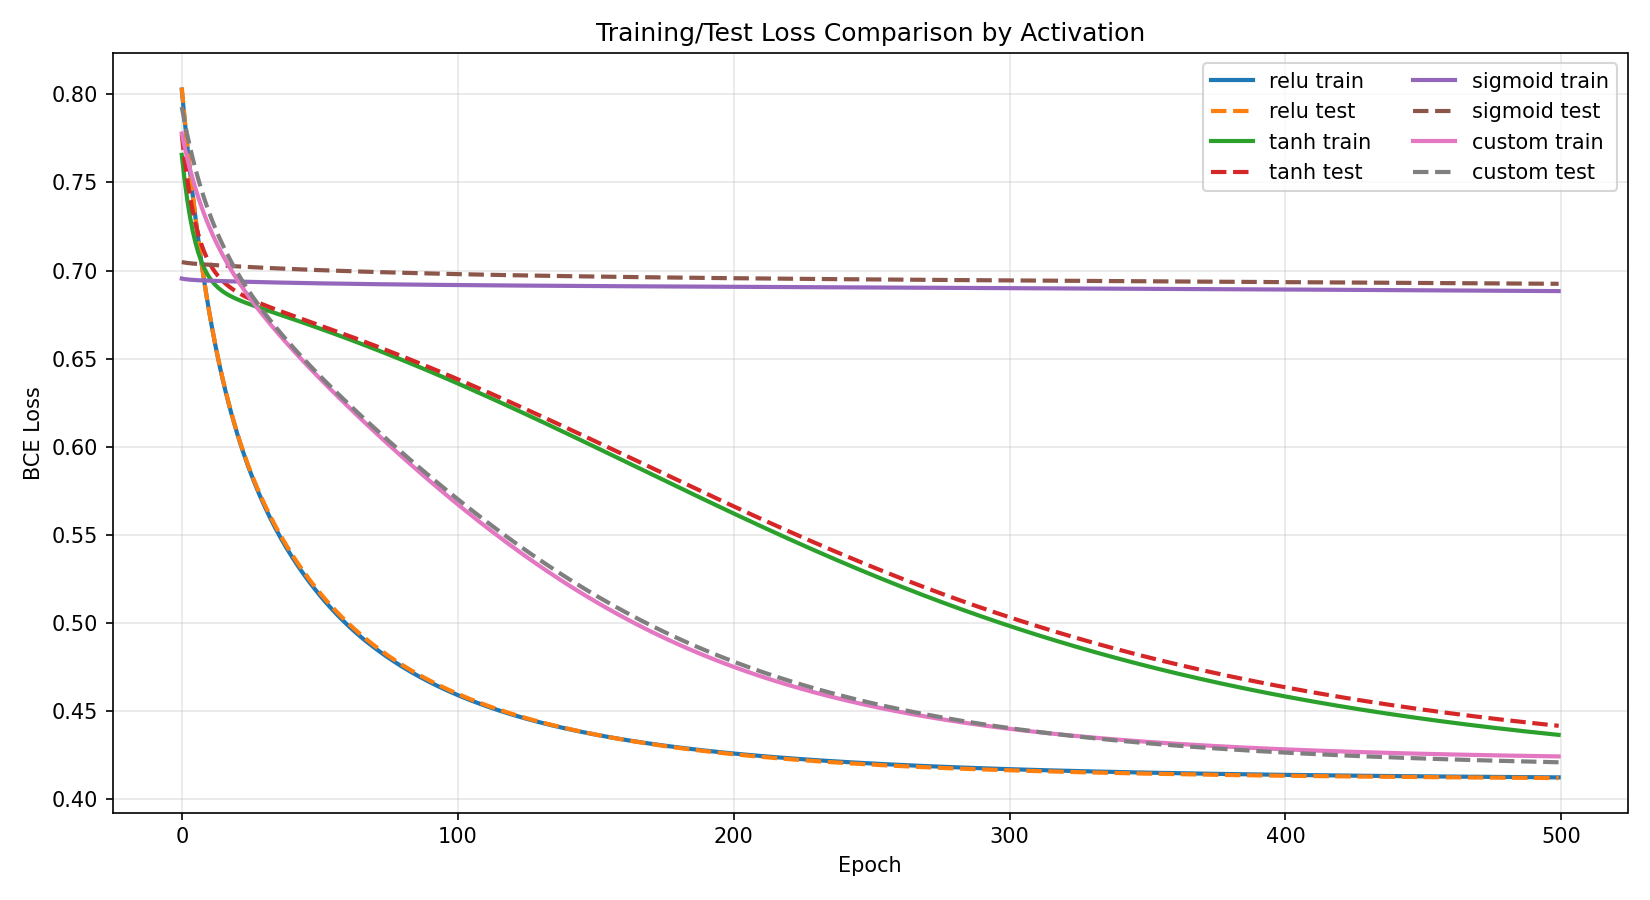
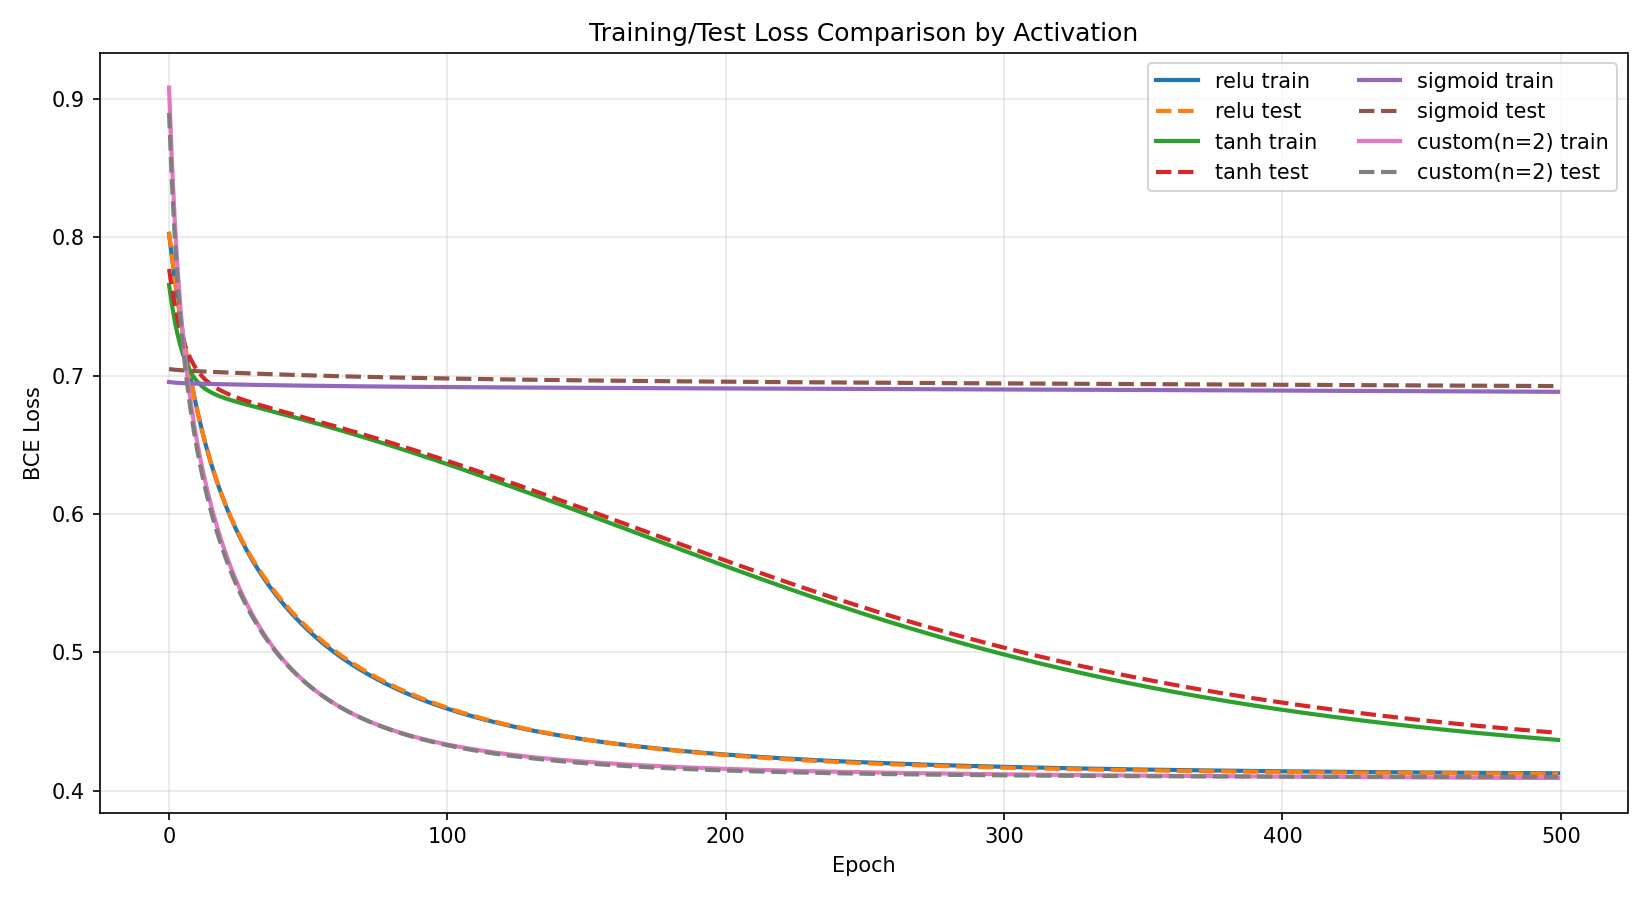
Switch custom activation to harmonic oscillator eigenfunction

diff --git a/compare_activations.py b/compare_activations.py
@@ -1,5 +1,6 @@
 #!/usr/bin/env python3
 import argparse
+import math
 import os
 from dataclasses import dataclass
 from typing import Callable, Dict, List, Optional, Tuple
@@ -48,15 +49,48 @@ def sigmoid_grad(x: Array) -> Array:
     return s * (1.0 - s)
 
 
-def custom_activation(x: Array) -> Array:
-    # Original example: Swish + small tanh term (smooth and non-monotonic around 0)
-    return x * sigmoid(x) + 0.1 * np.tanh(x)
+def hermite_polynomial(n: int, x: Array) -> Array:
+    if n < 0:
+        raise ValueError("n must be >= 0")
+    if n == 0:
+        return np.ones_like(x)
+    if n == 1:
+        return 2.0 * x
+    h_nm2 = np.ones_like(x)
+    h_nm1 = 2.0 * x
+    for k in range(1, n):
+        h_n = 2.0 * x * h_nm1 - 2.0 * k * h_nm2
+        h_nm2, h_nm1 = h_nm1, h_n
+    return h_nm1
 
 
-def custom_activation_grad(x: Array) -> Array:
-    s = sigmoid(x)
-    t = np.tanh(x)
-    return s + x * s * (1.0 - s) + 0.1 * (1.0 - t * t)
+def harmonic_oscillator_eigenfunction(n: int, x: Array) -> Array:
+    # Dimensionless 1D harmonic oscillator eigenfunction: psi_n(x)
+    h_n = hermite_polynomial(n, x)
+    norm = 1.0 / math.sqrt((2.0 ** n) * math.factorial(n) * math.sqrt(math.pi))
+    return norm * h_n * np.exp(-0.5 * x * x)
+
+
+def harmonic_oscillator_eigenfunction_grad(n: int, x: Array) -> Array:
+    h_n = hermite_polynomial(n, x)
+    if n == 0:
+        h_nm1 = np.zeros_like(x)
+    else:
+        h_nm1 = hermite_polynomial(n - 1, x)
+    norm = 1.0 / math.sqrt((2.0 ** n) * math.factorial(n) * math.sqrt(math.pi))
+    # d/dx [H_n(x) exp(-x^2/2)] = (2n H_{n-1}(x) - x H_n(x)) exp(-x^2/2)
+    return norm * (2.0 * n * h_nm1 - x * h_n) * np.exp(-0.5 * x * x)
+
+
+def custom_activation(x: Array, n: int = 2, alpha: float = 0.75, beta: float = 1.0) -> Array:
+    # Identity + scaled HO eigenfunction to keep gradients stable.
+    z = beta * x
+    return x + alpha * harmonic_oscillator_eigenfunction(n, z)
+
+
+def custom_activation_grad(x: Array, n: int = 2, alpha: float = 0.75, beta: float = 1.0) -> Array:
+    z = beta * x
+    return 1.0 + alpha * beta * harmonic_oscillator_eigenfunction_grad(n, z)
 
 
 def make_xor_data(n_samples: int, noise: float, seed: int) -> Tuple[Array, Array]:
@@ -204,13 +238,24 @@ def main() -> None:
     parser.add_argument("--seed", type=int, default=42)
     parser.add_argument("--acc-threshold", type=float, default=0.90)
     parser.add_argument("--out", type=str, default="results/loss_comparison.png")
+    parser.add_argument("--custom-n", type=int, default=2)
+    parser.add_argument("--custom-alpha", type=float, default=0.75)
+    parser.add_argument("--custom-beta", type=float, default=1.0)
     args = parser.parse_args()
+    if args.custom_n < 0:
+        raise ValueError("--custom-n must be >= 0")
 
     acts = [
         Activation("relu", relu, relu_grad),
         Activation("tanh", tanh, tanh_grad),
         Activation("sigmoid", sigmoid, sigmoid_grad),
-        Activation("custom", custom_activation, custom_activation_grad),
+        Activation(
+            f"custom(n={args.custom_n})",
+            lambda x: custom_activation(x, n=args.custom_n, alpha=args.custom_alpha, beta=args.custom_beta),
+            lambda x: custom_activation_grad(
+                x, n=args.custom_n, alpha=args.custom_alpha, beta=args.custom_beta
+            ),
+        ),
     ]
 
     x, y = make_xor_data(args.samples, args.noise, args.seed)

diff --git a/README.md b/README.md
@@ -26,3 +26,12 @@ python3 compare_activations.py --epochs 700 --lr 0.06 --hidden 48 --acc-threshol
 
 この2つをセットで変更してください。
 導関数が間違っていると、学習速度比較が正しく評価できません。
+
+現在の `custom` は、調和振動子の固有関数 `psi_n(x)` を使って
+`x + alpha * psi_n(beta * x)` として定義しています。
+
+切り替えパラメータ:
+
+```bash
+python3 compare_activations.py --custom-n 2 --custom-alpha 0.75 --custom-beta 1.0
+```
